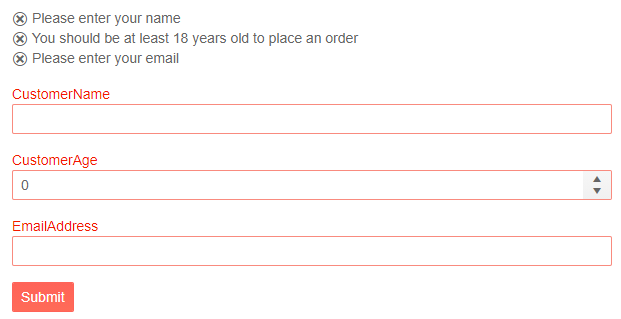
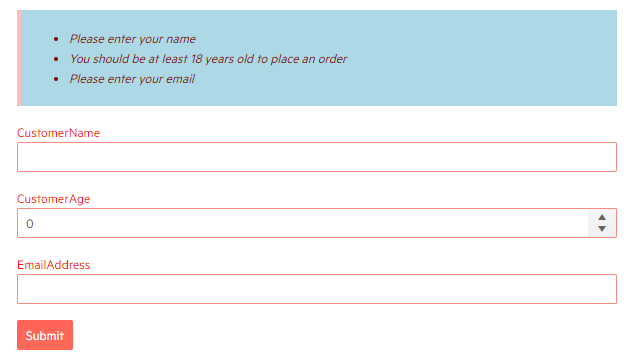
chore(validators): minor tweaks

diff --git a/components/validation/overview.md b/components/validation/overview.md
@@ -10,10 +10,10 @@ position: 0
 
 # Validation Tools Overview
 
-The Telerik UI for Blazor provides different ways to customize the validation messages. They can be used together with the [Telerik Form]({%slug form-overview%}) or with any form that provides an <a href="https://docs.microsoft.com/en-us/dotnet/api/microsoft.aspnetcore.components.forms.editcontext?view=aspnetcore-5.0" target="_blank">EditContext</a> like the EditForm provided from the framework. 
+The Telerik UI for Blazor provides different ways to customize the validation messages. They can be used together with the [Telerik Form]({%slug form-overview%}) or with any form that provides an <a href="https://docs.microsoft.com/en-us/dotnet/api/microsoft.aspnetcore.components.forms.editcontext?view=aspnetcore-5.0" target="_blank">EditContext</a> like the `EditForm` provided by the framework. 
 
+#### This article contains the following sections
 
-* [TelerikValidationSummary](#telerikvalidationsummary)
 * [Validation Tools](#validation-tools)
 * [Integration](#integration)
 	* [Integration with the TelerikForm](#integration-with-the-telerikform)
@@ -22,11 +22,13 @@ The Telerik UI for Blazor provides different ways to customize the validation me
 
 ## Validation Tools
 
-* [TelerikValidationSummary]({%slug validation-tools-summary%})
-* [TelerikValidationMessage]({%slug validation-tools-message%})
-* [TelerikValidationTooltip]({%slug validation-tools-tooltip%})
+Telerik provides the following validation tools to help you style your form validation:
 
-These components adds customization options on top of the standard validation tools the frameworks provides - `ValidationSummary` and `ValidationMessage`
+* [Validation Summary]({%slug validation-tools-summary%})
+* [Validation Message]({%slug validation-tools-message%})
+* [Validation Tooltip]({%slug validation-tools-tooltip%})
+
+These components add customization options on top of the standard validation tools the frameworks provides - `ValidationSummary` and `ValidationMessage`
 
 ## Integration
 
@@ -37,7 +39,7 @@ Here are two examples of integrating the Telerik validation extenders with forms
 
 ### Integration with the TelerikForm
 
-You can seamlessly integrate the validation tools with the [Form Component]({%slug form-overview%}). In order to avoid doubling of validation message you should set the [ValidationMessageType]({%slug form-overview%}#features) parameter to `FormValidationMessageType.None`.
+You can seamlessly integrate the validation tools with the [Form Component]({%slug form-overview%}). In order to avoid doubling of validation message you should set the [ValidationMessageType]({%slug form-overview%}#features) parameter of the form to `FormValidationMessageType.None`. You can also use them in the [templates with custom editors]({%slug form-formitems-template%}) that you can define with your own code.
 
 ````CSHTML
 @* Disable the default validation messages from the Telerik Form and use the validation tools instead *@
@@ -47,6 +49,7 @@ You can seamlessly integrate the validation tools with the [Form Component]({%sl
 <TelerikForm Model="@person" ValidationMessageType="@FormValidationMessageType.None">
     <FormValidation>
         <DataAnnotationsValidator />
+        <TelerikValidationSummary />
     </FormValidation>
 
     <FormItems>

diff --git a/components/validation/summary.md b/components/validation/summary.md
@@ -20,9 +20,9 @@ This article is separated in the following sections:
 
 ## Basics
 
-To enable Telerik Validation Summary in the form you should add the `<TelerikValidationSummary>` to the validation configuration part.
+To enable Telerik Validation Summary in the form you should add the `<TelerikValidationSummary>` to the validation configuration part. You can also add it directly to the standard `EditForm` component instead of the built-in `<ValidationSummary>` component.
 
->caption Enable Telerik Validation Summary in a Form
+>caption Enable Telerik Validation Summary in a Telerik Form
 
 ````CSHTML
 @* Enable the Telerik Validation Summary in the Telerik Form *@
@@ -62,7 +62,7 @@ To enable Telerik Validation Summary in the form you should add the `<TelerikVal
 
 ## Template
 
-Allows you to control the rendering of the validation summary. The `context` represents an `IEnumerable<string>` collection of all messages for the form.
+Allows you to control the rendering of the validation summary. The `context` represents an `IEnumerable<string>` collection of all error messages for the form.
 
 ````CSHTML
 @* Use the Template to customize the rendering of the validation summary *@
